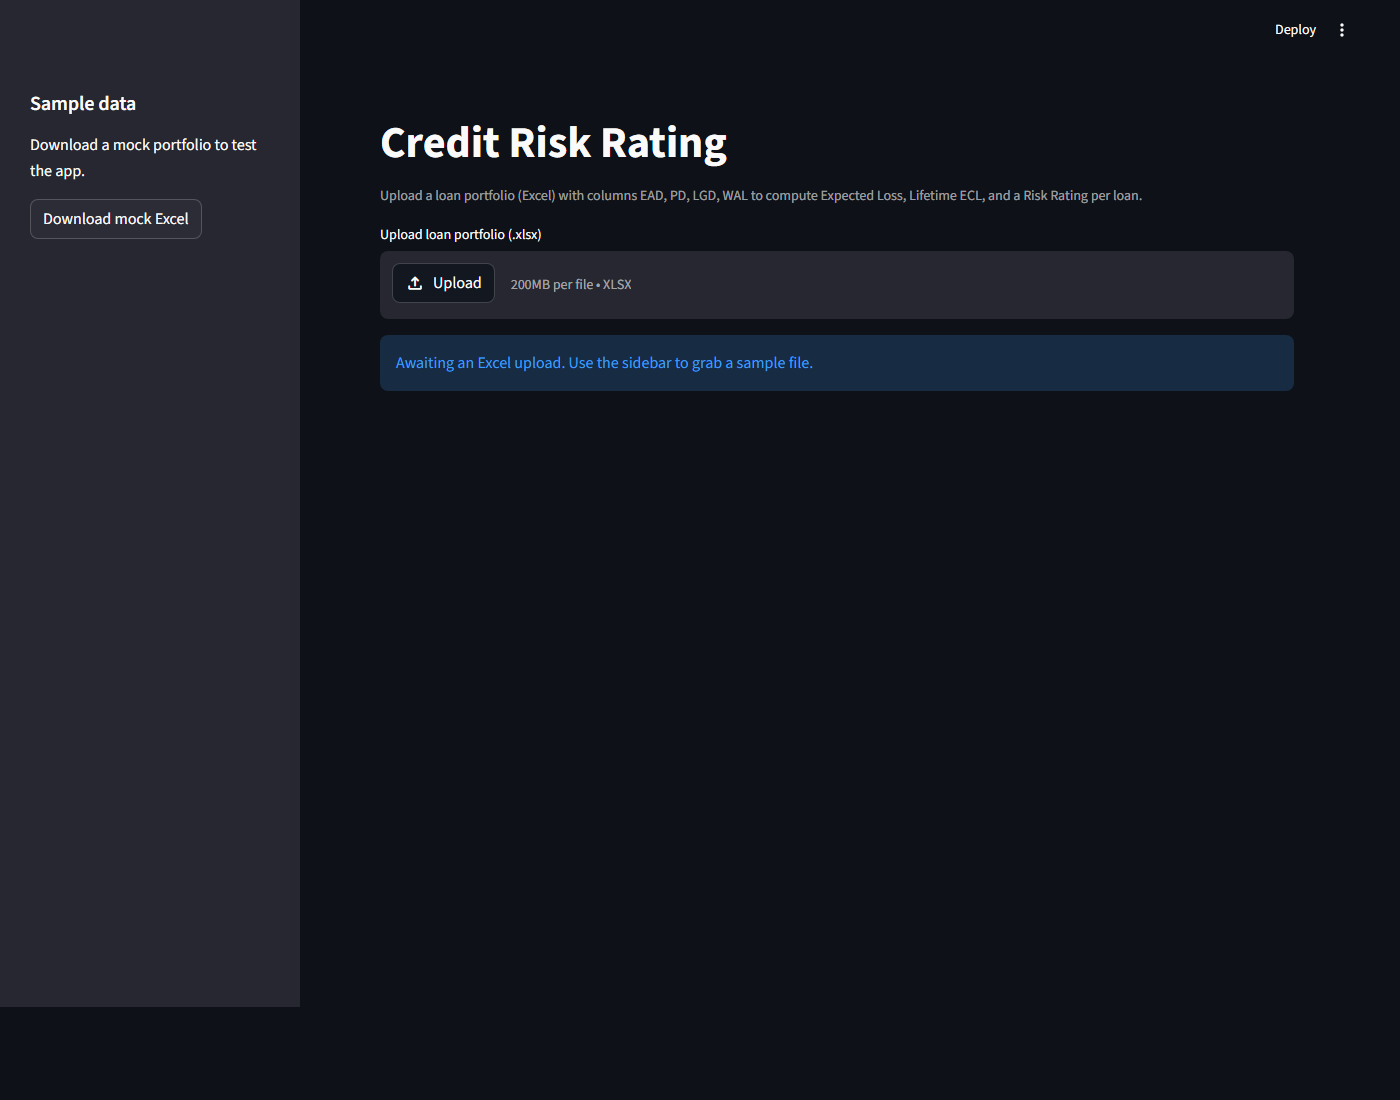
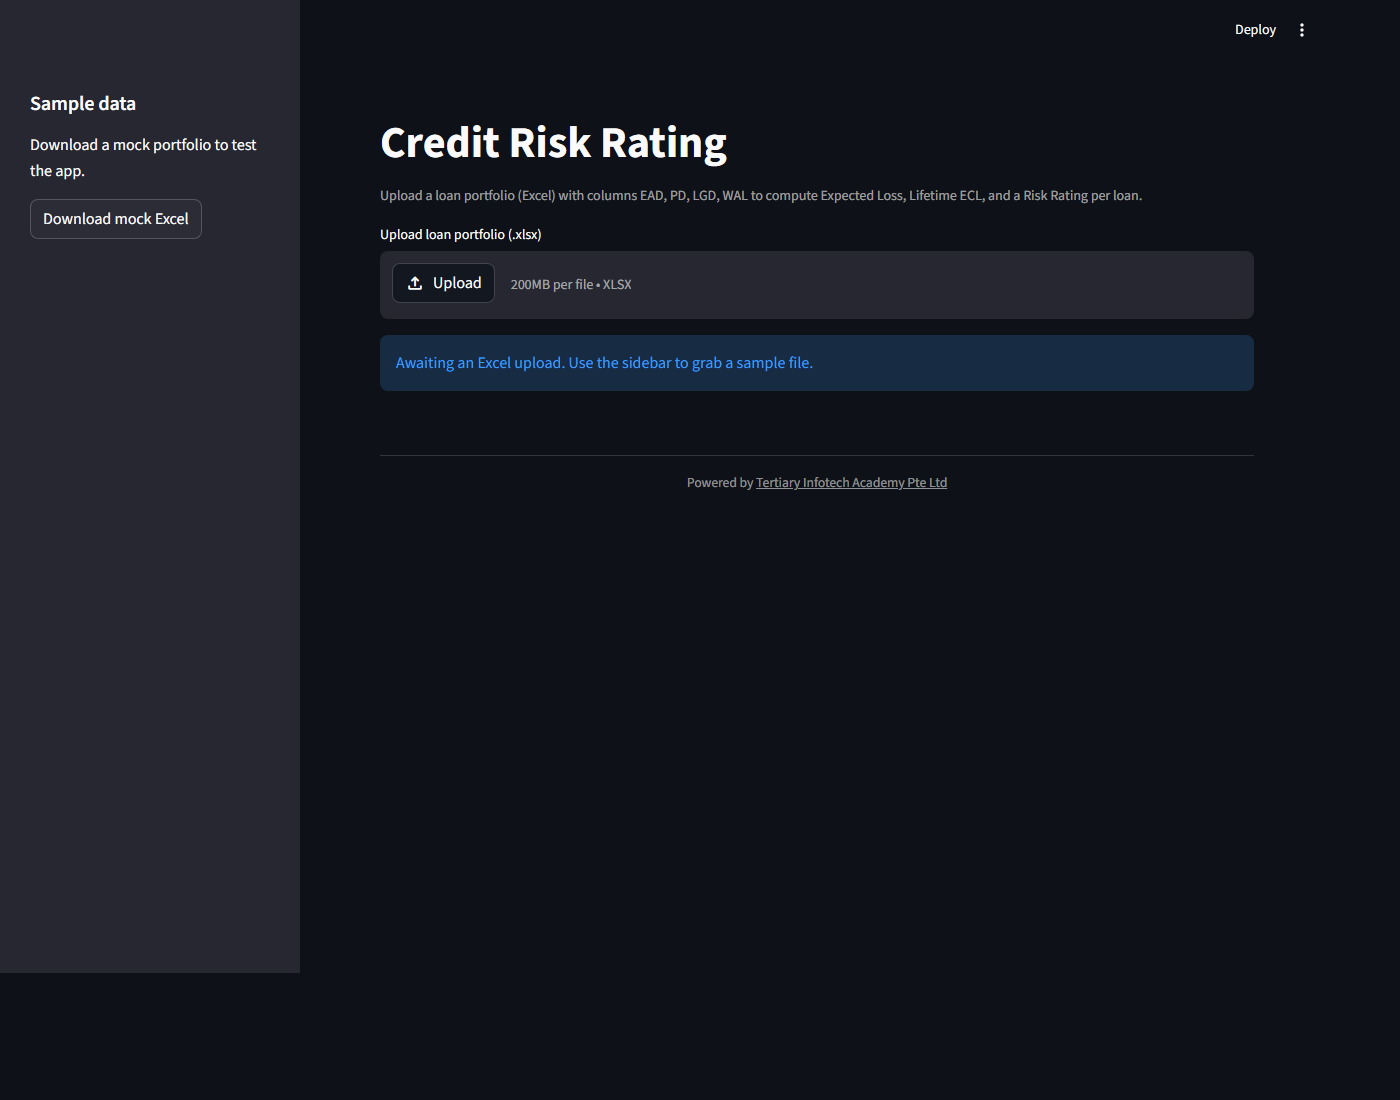
Add Tertiary Infotech Academy footer
Adds a centered footer with a link to https://www.tertiarycourses.com.sg/ rendered below the main content on every view.

diff --git a/app.py b/app.py
@@ -115,5 +115,18 @@ def main() -> None:
     )
 
 
+def render_footer() -> None:
+    st.markdown(
+        """
+        <hr style="margin-top: 3rem; margin-bottom: 1rem; border: none; border-top: 1px solid rgba(255,255,255,0.15);" />
+        <div style="text-align: center; color: rgba(255,255,255,0.55); font-size: 0.85rem; padding-bottom: 1rem;">
+            Powered by <a href="https://www.tertiarycourses.com.sg/" target="_blank" rel="noopener noreferrer" style="color: inherit; text-decoration: underline;">Tertiary Infotech Academy Pte Ltd</a>
+        </div>
+        """,
+        unsafe_allow_html=True,
+    )
+
+
 if __name__ == "__main__":
     main()
+    render_footer()
